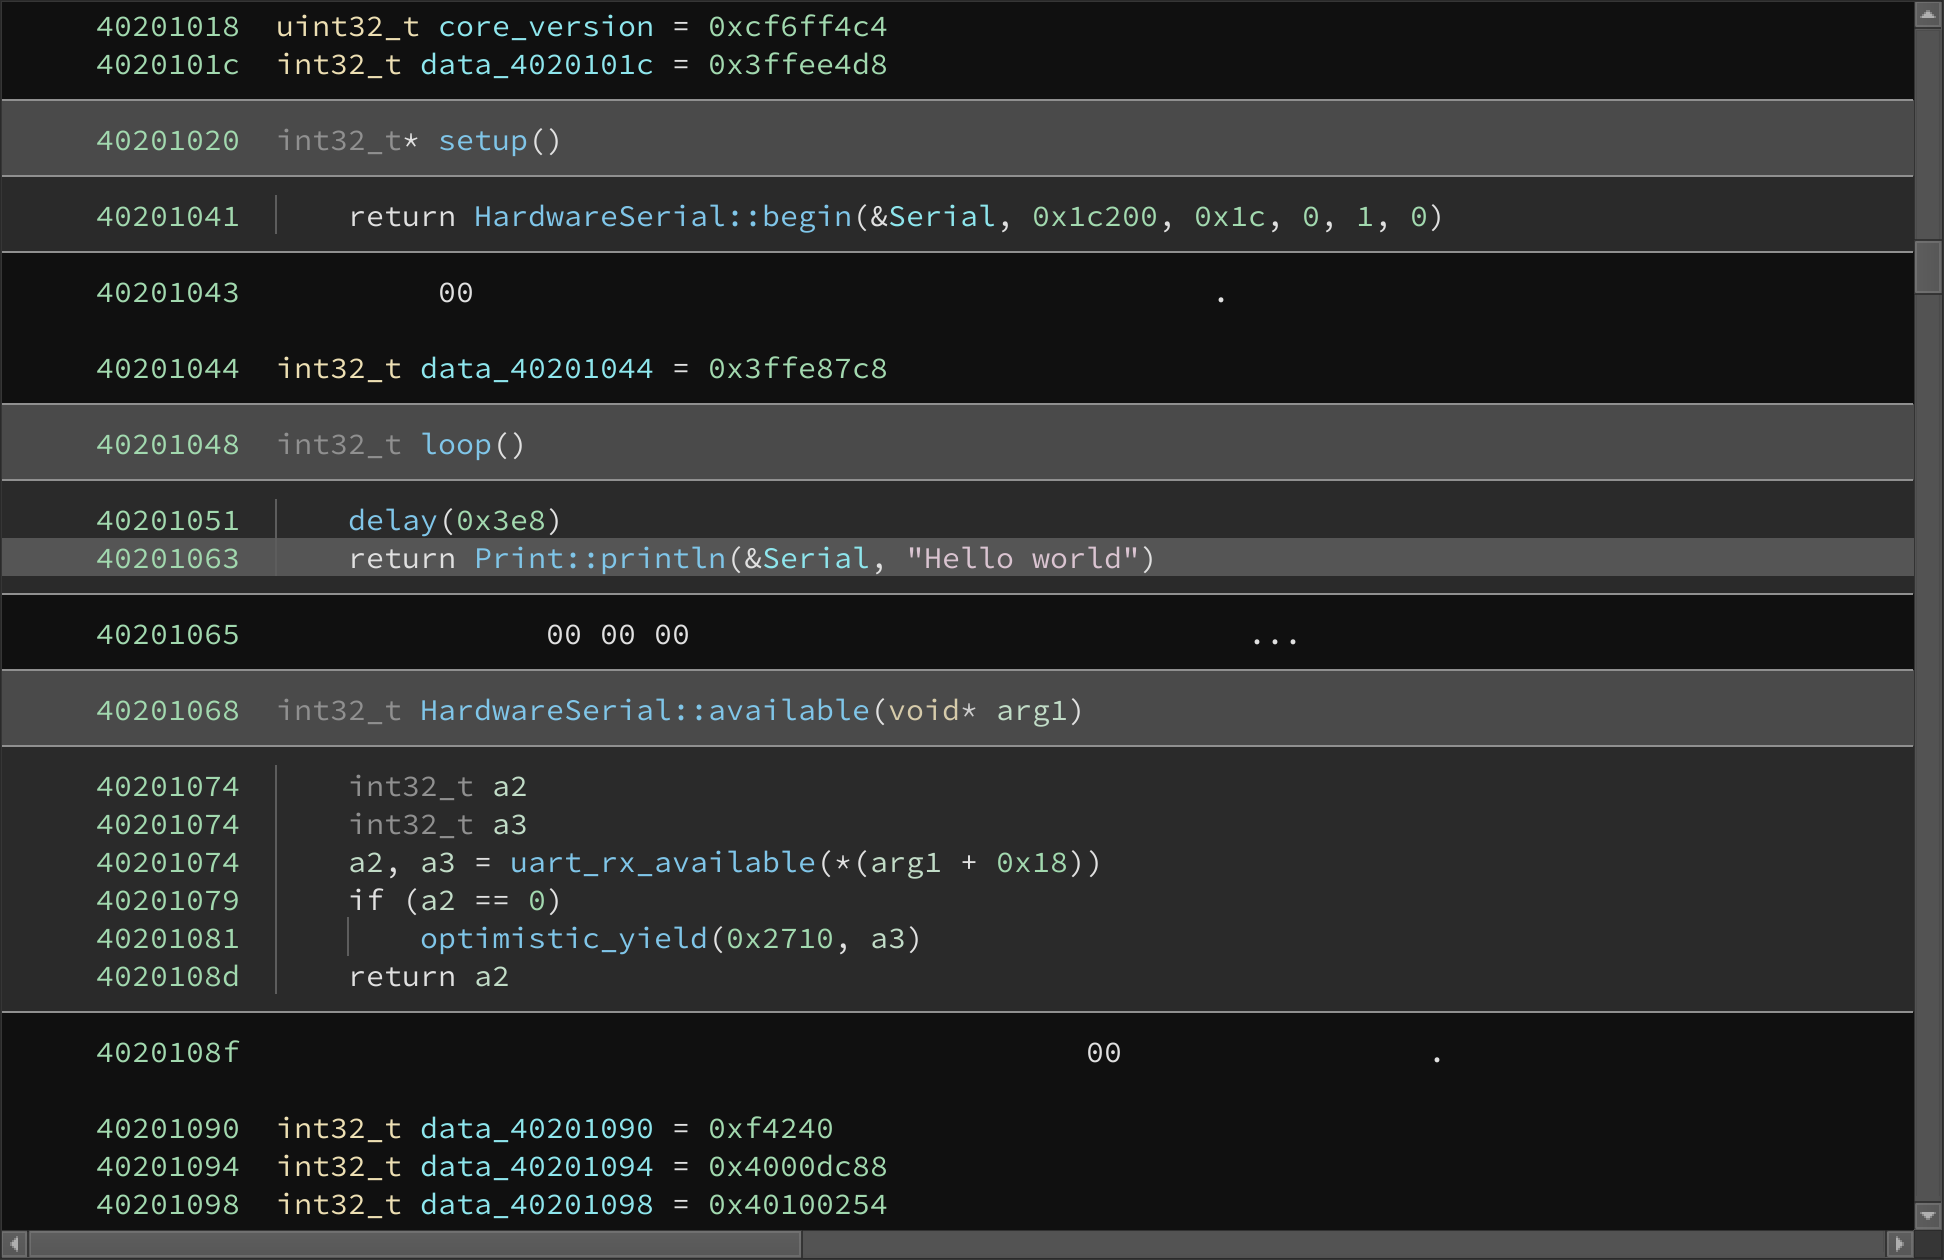
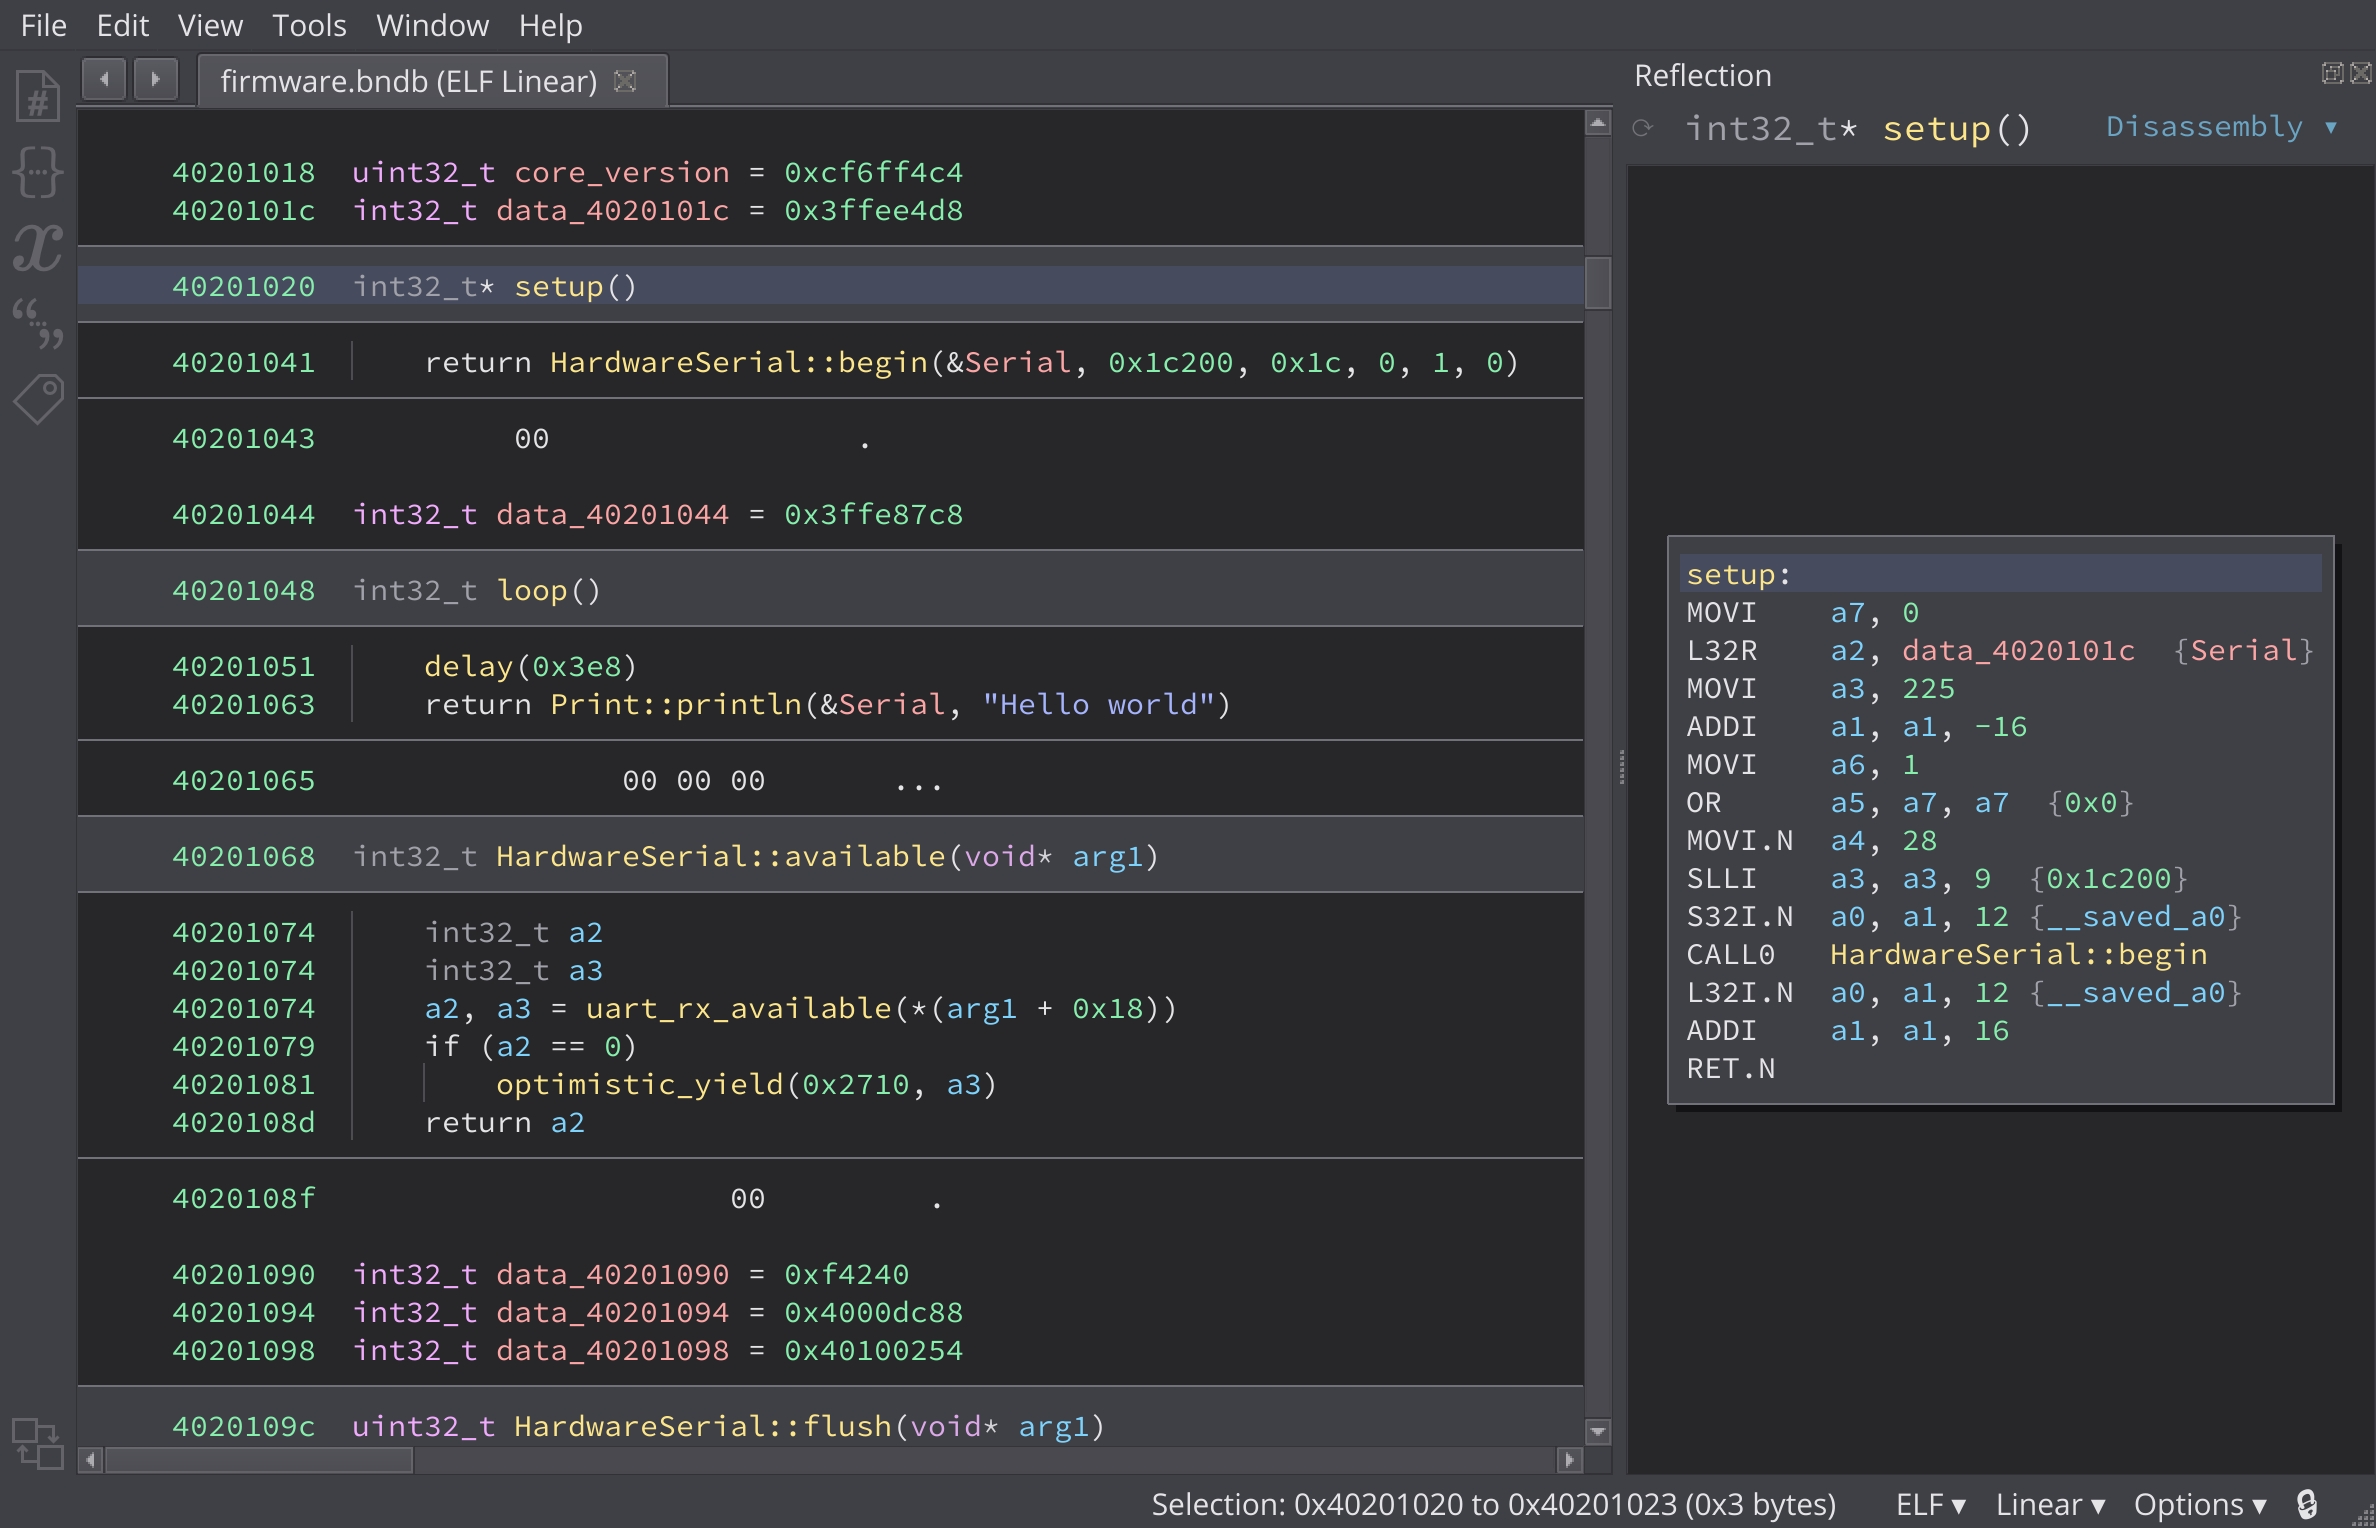
Vertically align first operand in disassembly
Also retake screenshots to match. Also retaking to use the Reflection
theme :)

diff --git a/binja_xtensa/disassembly.py b/binja_xtensa/disassembly.py
@@ -15,8 +15,12 @@ from .instruction import Instruction, InstructionType, sign_extend
 # Helpers to generate Binary Ninja InstructionTextTokens, since the names are
 # so long. We also do some cosmetic transformations of the encoded immediates
 # here.
-def _get_space():
-    return InstructionTextToken(InstructionTextTokenType.TextToken, "    ")
+_MNEM_ALIGN = 8
+def _get_space(mnem_length):
+    # Vertically align the first operand where possible
+    spaces = 1 if mnem_length >= _MNEM_ALIGN else _MNEM_ALIGN - mnem_length
+    return InstructionTextToken(InstructionTextTokenType.TextToken,
+                                " " * spaces)
 
 def _get_comma():
     return InstructionTextToken(InstructionTextTokenType.OperandSeparatorToken, ", ")
@@ -124,7 +128,7 @@ def _dis(fmt_str, *args):
         tokens = []
         tokens.append(InstructionTextToken(InstructionTextTokenType.InstructionToken,
                                          insn.mnem))
-        tokens.append(_get_space())
+        tokens.append(_get_space(len(insn.mnem)))
         for idx, fmt in enumerate(fmts):
             if idx > 0:
                 tokens.append(_get_comma())
@@ -176,7 +180,7 @@ def disassemble_instruction(insn, addr):
         text = []
         text.append(InstructionTextToken(InstructionTextTokenType.InstructionToken,
                                          insn.mnem))
-        text.append(_get_space())
+        text.append(_get_space(len(insn.mnem)))
         text.append(InstructionTextToken(InstructionTextTokenType.TextToken,
                                      "unimplemented_disass"))
         return text
@@ -193,7 +197,7 @@ def _disassemble_RSR(insn, addr):
     tokens = []
     tokens.append(InstructionTextToken(InstructionTextTokenType.InstructionToken,
                                      mnem))
-    tokens.append(_get_space())
+    tokens.append(_get_space(len(mnem)))
     fmts = ["at"]
     for idx, fmt in enumerate(fmts):
         if idx > 0:
